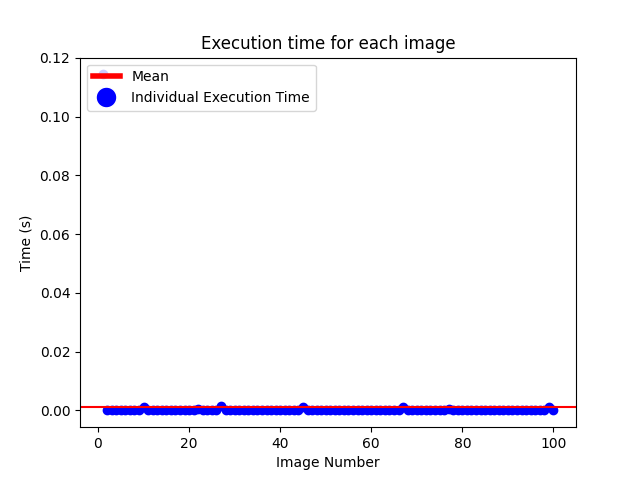
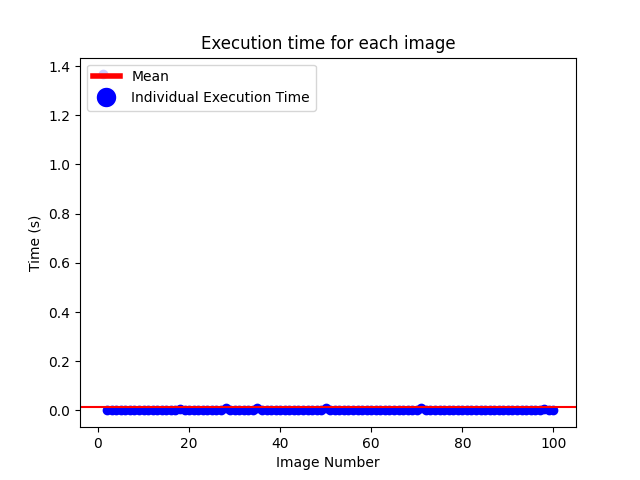
Gaussian Blur sequential and parallel

diff --git a/gaussian_blur_parallel.py b/gaussian_blur_parallel.py
@@ -1,0 +1,141 @@
+import cv2
+import re
+import numpy as np
+import cupy as cp
+import os
+import matplotlib.pyplot as plt
+from matplotlib.lines import Line2D
+from matplotlib.patches import Patch
+import time
+from scipy.signal import convolve2d
+from scipy.ndimage import convolve
+import concurrent.futures
+
+def load_images():
+    """
+    This method iterates over all the files in the output directory (generated from binarization) and picks the images from that directory
+    """
+    current_directory = os.getcwd()
+    dataset_directory = "output"
+    image_directory = os.path.join(current_directory, dataset_directory)
+    all_files = os.listdir(image_directory)
+    image_files = [f for f in all_files if f.lower().endswith(('.png'))]
+    image_files.sort(key=lambda x: int(re.findall(r'\d+', x)[0])) # sort the images by digit
+    print(f"Total images found in the dataset: {len(image_files)}")
+    return image_files, image_directory
+
+def image_to_array(images: list, image_directory: str):
+    """
+    This method iterates over each image and converts the image into RGBA and saves them in an np array
+    """
+    image_arrays = []
+    for image in images:
+        path = image_directory + "/" + image
+        image_read = cv2.imread(path) # read an image
+        image_rgb = cv2.cvtColor(image_read, cv2.COLOR_BGR2RGB) # convert the image into RGBA  
+        image_arrays.append(image_rgb) # add each RGBA image to the list
+
+    image_np_arrays = np.array(image_arrays)
+    return image_np_arrays
+
+def gaussian_kernel(size = 5, sigma=1.0):
+    """
+    This method generates a 2D Gaussian Kernel needed for gaussian blurring functions
+    """
+
+    kernel = np.fromfunction(
+        lambda x, y: (1/(2*np.pi*sigma**2)) * np.exp(-((x-(size-1)/2)**2 + (y-(size-1)/2)**2)/(2*sigma**2)),
+        (size, size)
+    )
+
+    return kernel / np.sum(kernel)
+
+def apply_gaussian_blur(image, kernel=5):
+
+    blurred_image = np.empty_like(image, dtype=np.float32)
+    for i in range(image.shape[2]):  # Loop over color channels
+        blurred_image[:, :, i] = convolve(image[:, :, i], kernel)
+    return blurred_image.astype(np.uint8)
+
+def parallel_gaussian_blur_image(image, num_workers = None):
+    """
+    This function applies the gaussian blur to image using parallelization
+    """
+
+    kernel = gaussian_kernel()
+    height, width, _ = image.shape
+    chunk_size = height // num_workers if num_workers else height
+
+    start_time = time.time()
+
+    with concurrent.futures.ThreadPoolExecutor(max_workers=num_workers) as executor:
+        futures = []
+        for i in range(0, height, chunk_size):
+            chunk = image[i:i + chunk_size, :]
+            futures.append(executor.submit(apply_gaussian_blur, chunk, kernel))
+
+        result_chunks = [future.result() for future in concurrent.futures.as_completed(futures)]
+
+    return np.vstack(result_chunks), time.time() - start_time
+
+    
+    
+
+def parallel_gaussian_blur_all(image_np_arrays):
+
+    """
+    Iterates through all the image np arrays and applies the gaussian blur technique
+    """
+
+    current_directory = os.getcwd()
+    output_directory = "final_output"
+    output_directory = os.path.join(current_directory, output_directory)
+    os.makedirs(output_directory, exist_ok=True)
+
+    counter = 1
+
+    execution_time_array = []
+
+    for image in image_np_arrays:
+
+        gaussian_blurred_image, execution_time = parallel_gaussian_blur_image(image)
+
+        output_path = os.path.join(output_directory, f"binarized&gaussianBlur_{counter}.png")
+        cv2.imwrite(output_path, gaussian_blurred_image) # store the binarized image into the output directory
+
+        execution_time_array.append(execution_time)
+
+        counter = counter + 1
+
+    return execution_time_array
+
+    
+
+def plot_execution_time(execution_time_array):
+    """
+    This method plots the execution time of the binarization on the number of images
+    """
+    plt.title("Execution time for each image")
+    plt.scatter(np.arange(start=1, stop=101, step=1), np.array(execution_time_array), color="blue")
+    plt.axhline(y=np.nanmean(np.array(execution_time_array)), color="red")
+    legend_elements = [Line2D([0], [0], color='r', lw=4, label='Mean'), Line2D([0], [0], marker='o', color="w", label='Individual Execution Time', markerfacecolor='b', markersize=15),]
+    plt.legend(handles=legend_elements, loc="upper left")
+    plt.xlabel("Image Number")
+    plt.ylabel("Time (s)")
+
+    plt.savefig("analysis/gaussianBlur_parallel_execution_time.png")
+    plt.close("analysis/gaussianBlur_parallel_execution_time.png")
+
+    print("--- Parallel Gaussian Blur Execution Time: %s seconds ---" % (sum(execution_time_array)))
+
+
+def main():
+    # images contains filenames of all binarized png images
+    # image_directory contains the complete directory address for the output folder
+    images, image_directory = load_images()
+    image_np_arrays = image_to_array(images, image_directory)
+    execution_time_array = parallel_gaussian_blur_all(image_np_arrays)
+    plot_execution_time(execution_time_array)
+
+if __name__ == "__main__":
+    main()

diff --git a/gaussian_blur_sequential.py b/gaussian_blur_sequential.py
@@ -1,0 +1,120 @@
+import cv2
+import re
+import numpy as np
+import os
+import matplotlib.pyplot as plt
+from matplotlib.lines import Line2D
+from matplotlib.patches import Patch
+import time
+from scipy.signal import convolve2d
+
+def load_images():
+    """
+    This method iterates over all the files in the output directory (generated from binarization) and picks the images from that directory
+    """
+    current_directory = os.getcwd()
+    dataset_directory = "output"
+    image_directory = os.path.join(current_directory, dataset_directory)
+    all_files = os.listdir(image_directory)
+    image_files = [f for f in all_files if f.lower().endswith(('.png'))]
+    image_files.sort(key=lambda x: int(re.findall(r'\d+', x)[0])) # sort the images by digit
+    print(f"Total images found in the dataset: {len(image_files)}")
+    return image_files, image_directory
+
+def image_to_array(images: list, image_directory: str):
+    """
+    This method iterates over each image and converts the image into RGBA and saves them in an np array
+    """
+    image_arrays = []
+    for image in images:
+        path = image_directory + "/" + image
+        image_read = cv2.imread(path) # read an image
+        image_rgb = cv2.cvtColor(image_read, cv2.COLOR_BGR2RGB) # convert the image into RGBA  
+        image_arrays.append(image_rgb) # add each RGBA image to the list
+
+    image_np_arrays = np.array(image_arrays)
+    return image_np_arrays
+
+def gaussian_kernel(size, sigma=1.0):
+    """
+    This method generates a 2D Gaussian Kernel needed for gaussian blurring functions
+    """
+
+    kernel = np.fromfunction(
+        lambda x, y: (1/(2*np.pi*sigma**2)) * np.exp(-((x-(size-1)/2)**2 + (y-(size-1)/2)**2)/(2*sigma**2)),
+        (size, size)
+    )
+
+    return kernel / np.sum(kernel)
+
+def sequential_gaussian_blur_image(image, kernel_size=5, sigma=1.0):
+    """
+    This function applies the gaussian blur to image using a sequential method
+    """
+
+    start_time = time.time()
+
+    kernel = gaussian_kernel(kernel_size, sigma)
+
+    blurred_image = np.zeros_like(image, dtype=float)
+    for c in range(image.shape[-1]):
+        blurred_image[..., c] = convolve2d(image[..., c], kernel, mode='same', boundary='symm')
+
+    return blurred_image.astype(np.uint8), time.time() - start_time
+
+def sequential_gaussian_blur_all(image_np_arrays):
+
+    """
+    Iterates through all the image np arrays and applies the gaussian blur technique
+    """
+
+    current_directory = os.getcwd()
+    output_directory = "final_output"
+    output_directory = os.path.join(current_directory, output_directory)
+    os.makedirs(output_directory, exist_ok=True)
+
+    execution_time_array = []
+
+    counter = 1
+
+    for image in image_np_arrays:
+
+        gaussian_blurred_image, execution_time = sequential_gaussian_blur_image(image)
+
+        output_path = os.path.join(output_directory, f"binarized&gaussianBlur_{counter}.png")
+        cv2.imwrite(output_path, gaussian_blurred_image) # store the binarized image into the output directory
+
+        execution_time_array.append(execution_time)
+
+        counter = counter + 1
+
+    return execution_time_array
+
+def plot_execution_time(execution_time_array):
+    """
+    This method plots the execution time of the binarization on the number of images
+    """
+    plt.title("Execution time for each image")
+    plt.scatter(np.arange(start=1, stop=101, step=1), np.array(execution_time_array), color="blue")
+    plt.axhline(y=np.nanmean(np.array(execution_time_array)), color="red")
+    legend_elements = [Line2D([0], [0], color='r', lw=4, label='Mean'), Line2D([0], [0], marker='o', color="w", label='Individual Execution Time', markerfacecolor='b', markersize=15),]
+    plt.legend(handles=legend_elements, loc="upper left")
+    plt.xlabel("Image Number")
+    plt.ylabel("Time (s)")
+
+    plt.savefig("analysis/gaussianBlur_sequential_execution_time.png")
+    plt.close("analysis/gaussianBlur_sequential_execution_time.png")
+
+    print("--- Sequential Gaussian Blur Execution Time: %s seconds ---" % (sum(execution_time_array)))
+
+
+def main():
+    # images contains filenames of all binarized png images
+    # image_directory contains the complete directory address for the output folder
+    images, image_directory = load_images()
+    image_np_arrays = image_to_array(images, image_directory)
+    execution_time_array = sequential_gaussian_blur_all(image_np_arrays)
+    plot_execution_time(execution_time_array)
+
+if __name__ == "__main__":
+    main()
